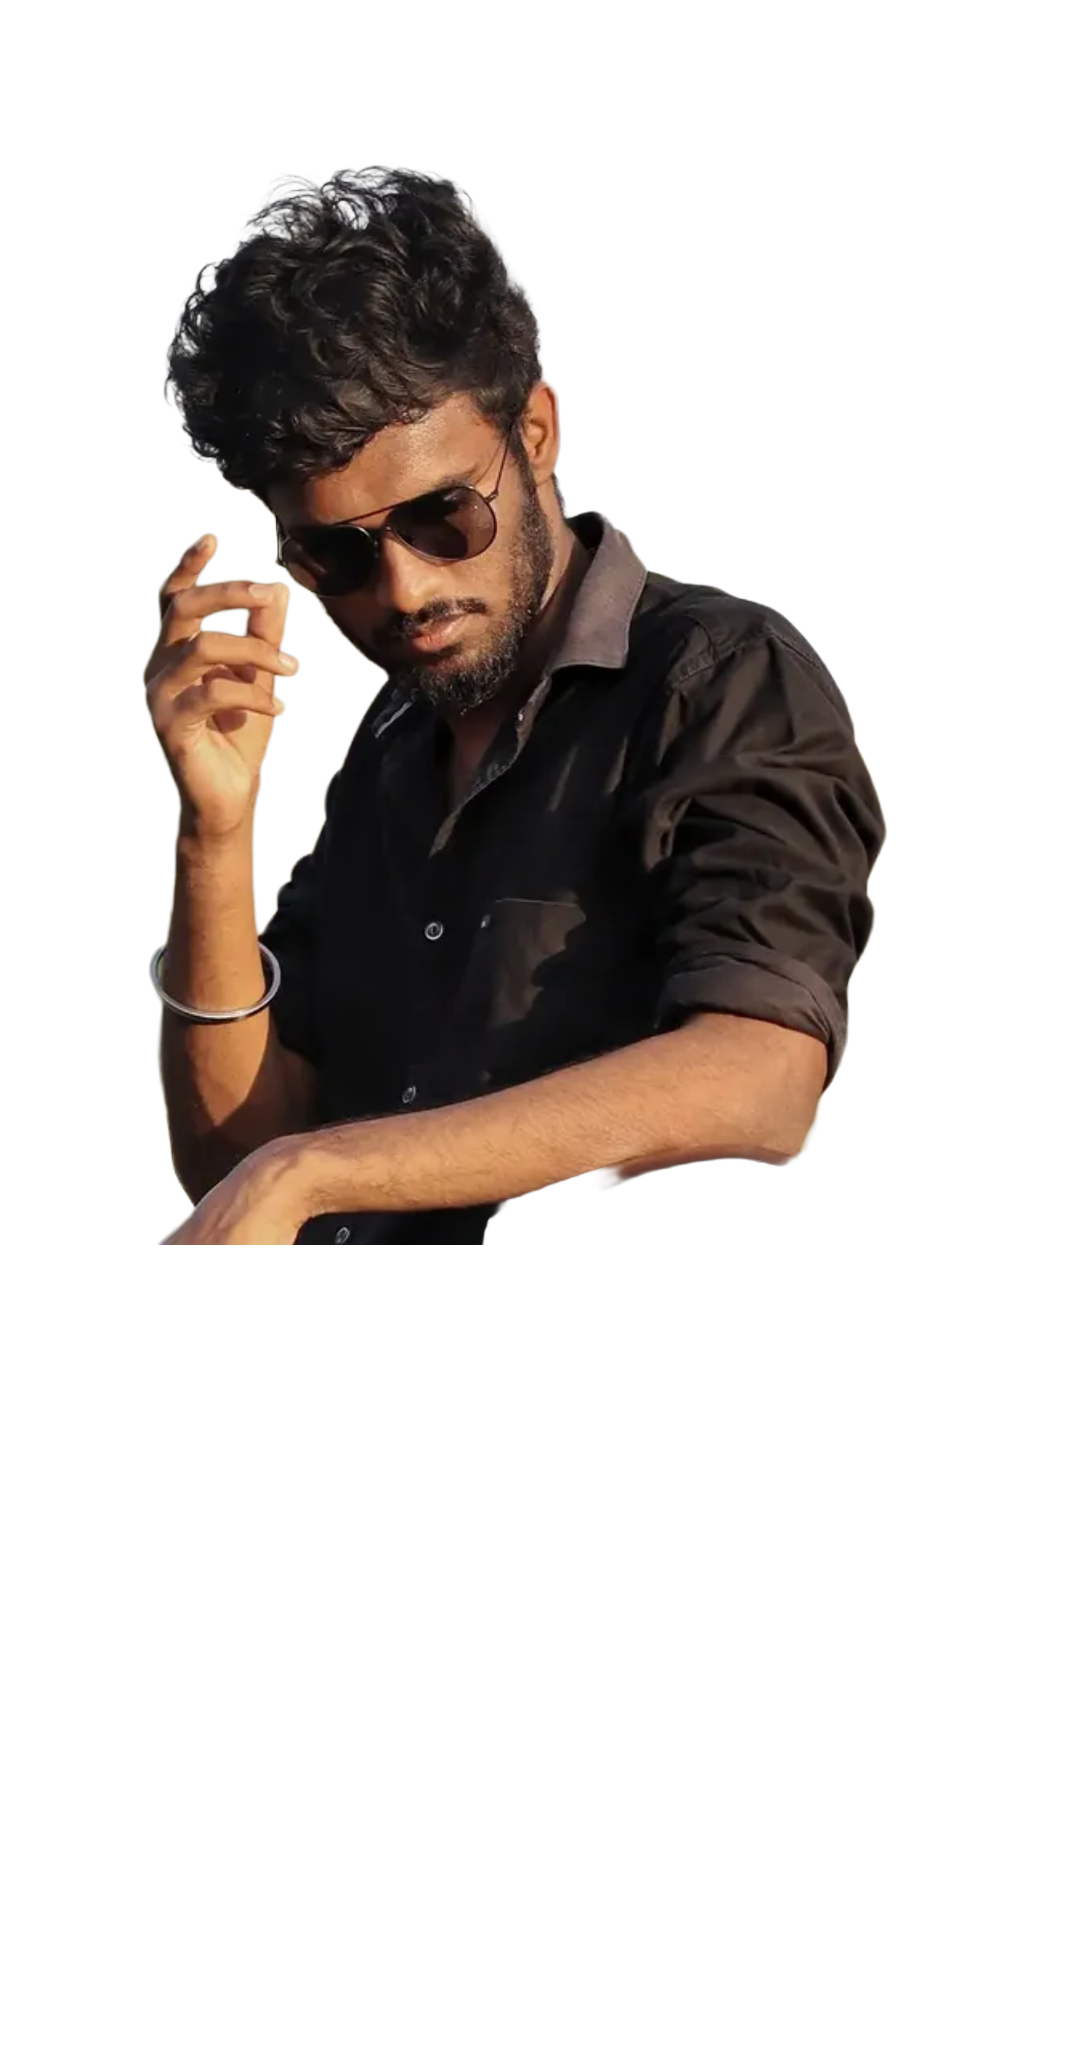
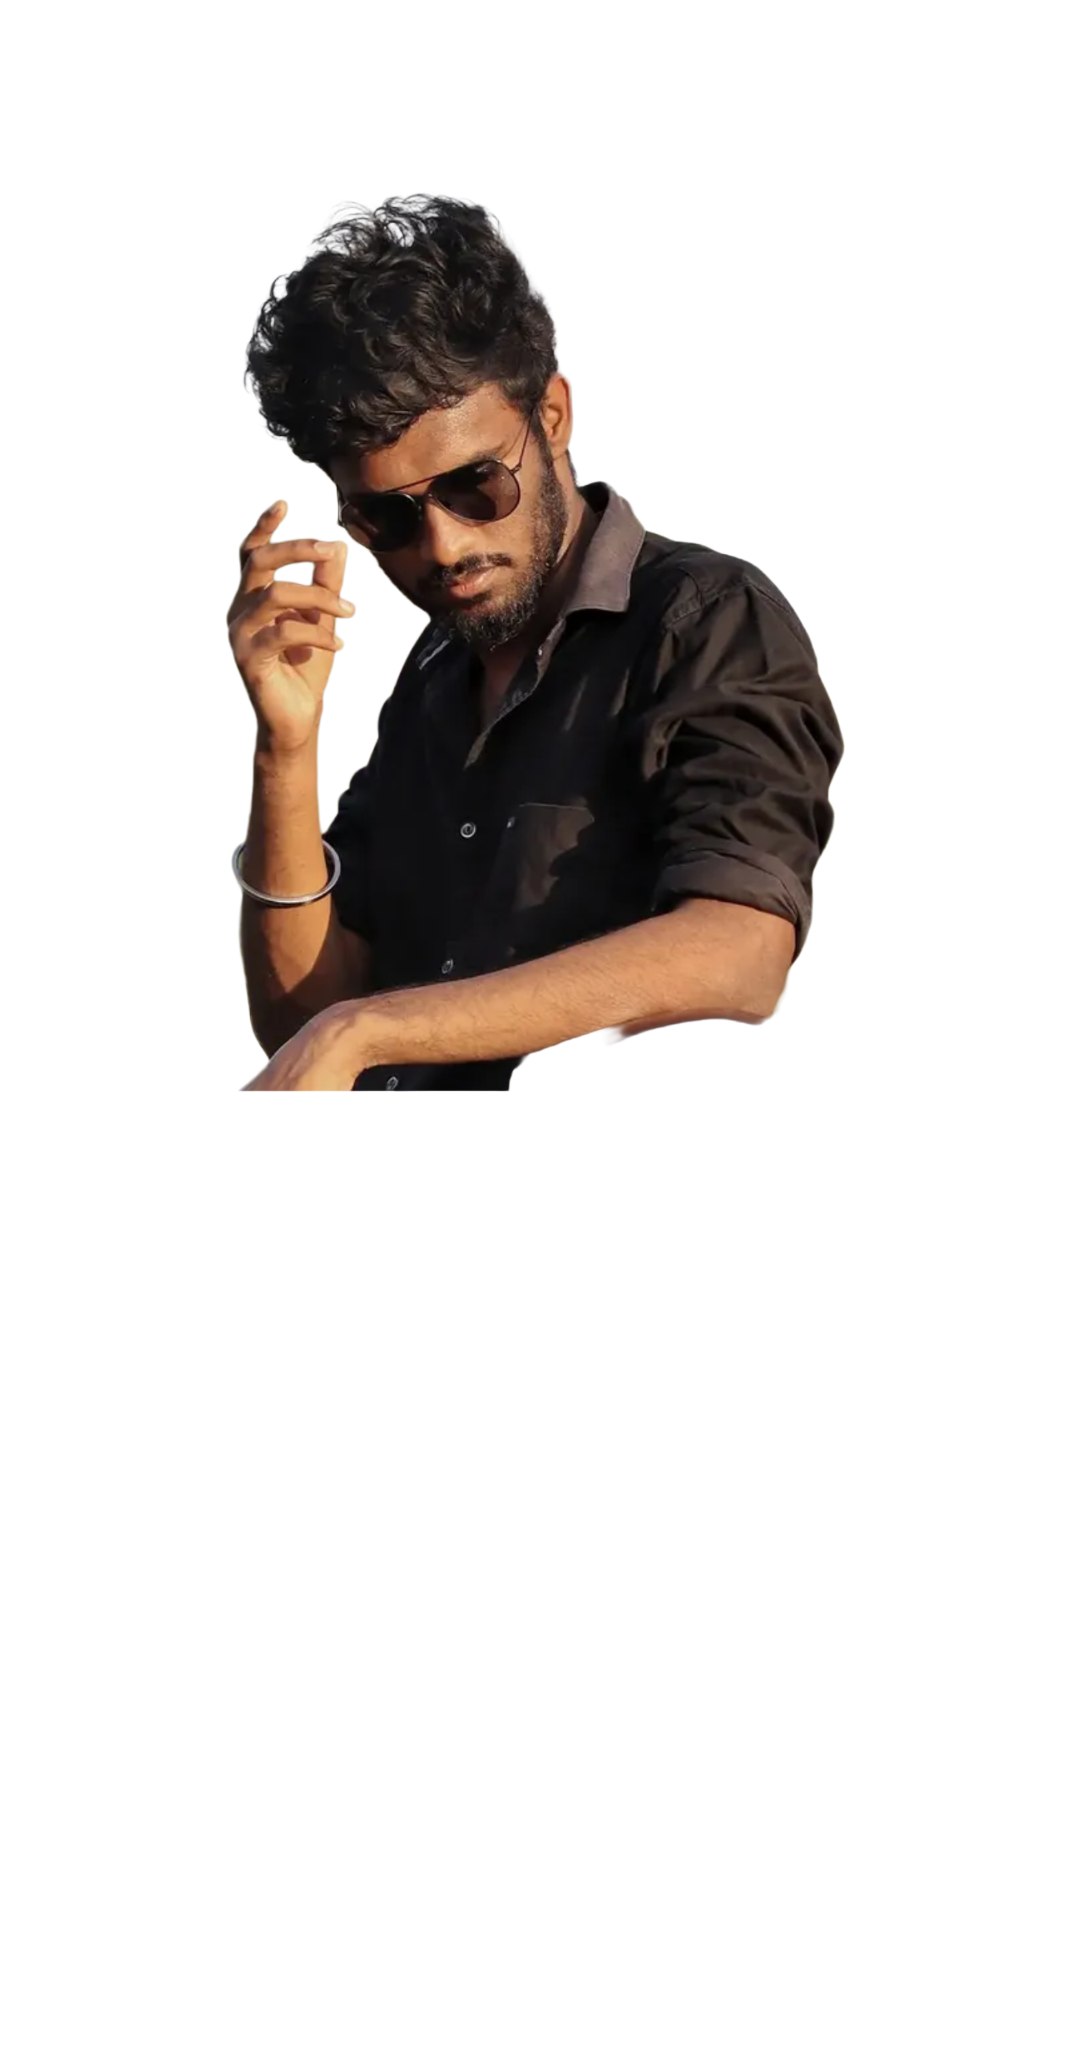
mobile responsive changed

Changed region(s): [[0.1222, 0.0622, 0.825, 0.6223]]

diff --git a/src/components/sections/hero.css b/src/components/sections/hero.css
@@ -6,10 +6,15 @@
 .hero-section {
   position: relative;
   min-height: 100vh;
-  background: #080808;
+  background: #ffffff;
   display: flex;
   align-items: center;
   font-family: 'Space Grotesk', 'Inter', system-ui, sans-serif;
+  color: #09090b;
+  transition: background-color 0.3s, color 0.3s;
+}
+.dark .hero-section {
+  background: #080808;
   color: #f0f0f0;
   width: 100%;
   margin-top: -64px; /* offset the Layout's pt-16 (64px) */
@@ -21,6 +26,9 @@
 .hero-grid-bg {
   position: absolute;
   inset: 0;
+  background-image: radial-gradient(circle, rgba(0,0,0,0.06) 1px, transparent 1px);
+}
+.dark .hero-grid-bg {
   background-image: radial-gradient(circle, rgba(255,255,255,0.04) 1px, transparent 1px);
   background-size: 32px 32px;
   pointer-events: none;
@@ -114,13 +122,17 @@
 
 /* Heading */
 .hero-heading {
+  width: 100%;
   font-family: 'Space Grotesk', sans-serif;
   font-size: clamp(2rem, 4vw, 3.25rem);
   font-weight: 700;
   line-height: 1.15;
   letter-spacing: -0.02em;
-  color: #ffffff;
+  color: #09090b;
   margin: 0;
+}
+.dark .hero-heading {
+  color: #ffffff;
 }
 .hero-heading .hero-heading-accent {
   background: linear-gradient(135deg, #3B82F6, #60A5FA, #818CF8);
@@ -134,9 +146,13 @@
   font-family: 'Inter', sans-serif;
   font-size: 1rem;
   line-height: 1.7;
-  color: rgba(255,255,255,0.55);
+  color: rgba(9, 9, 11, 0.7);
   max-width: 520px;
   margin: 0;
+}
+.dark .hero-description {
+  width: 100%;
+  color: rgba(255,255,255,0.55);
 }
 
 /* ---------- CTA Buttons ---------- */
@@ -187,28 +203,49 @@
 /* Secondary — outlined */
 .hero-btn-secondary {
   background: transparent;
+  color: #4b5563;
+  border: 1px solid rgba(0,0,0,0.15);
+  box-shadow: 0 2px 8px rgba(0,0,0,0.05);
+}
+.dark .hero-btn-secondary {
   color: #e0e0e0;
   border: 1px solid rgba(255,255,255,0.15);
   box-shadow: 0 2px 8px rgba(0,0,0,0.1);
 }
 .hero-btn-secondary:hover {
   transform: translateY(-3px);
-  background: rgba(255,255,255,0.06);
+  background: rgba(0,0,0,0.04);
   border-color: rgba(59,130,246,0.4);
+  color: #09090b;
+  box-shadow: 0 8px 32px rgba(59,130,246,0.08);
+}
+.dark .hero-btn-secondary:hover {
+  background: rgba(255,255,255,0.06);
   color: #ffffff;
   box-shadow: 0 8px 32px rgba(59,130,246,0.12);
 }
 
 /* Glass — download resume */
 .hero-btn-glass {
+  background: rgba(0,0,0,0.03);
+  color: #4b5563;
+  border: 1px solid rgba(0,0,0,0.1);
+  backdrop-filter: blur(12px);
+}
+.dark .hero-btn-glass {
   background: rgba(255,255,255,0.06);
   color: #d0d0d0;
   border: 1px solid rgba(255,255,255,0.1);
-  backdrop-filter: blur(12px);
   -webkit-backdrop-filter: blur(12px);
 }
 .hero-btn-glass:hover {
   transform: translateY(-3px);
+  background: rgba(0,0,0,0.06);
+  border-color: rgba(0,0,0,0.2);
+  color: #09090b;
+  box-shadow: 0 8px 32px rgba(0,0,0,0.06);
+}
+.dark .hero-btn-glass:hover {
   background: rgba(255,255,255,0.1);
   border-color: rgba(255,255,255,0.2);
   color: #ffffff;
@@ -331,9 +368,13 @@
   align-items: center;
   gap: 8px;
   padding: 6px 12px;
+  background: rgba(0,0,0,0.04);
+  border: 1px solid rgba(0,0,0,0.08);
+  border-radius: 20px;
+}
+.dark .portrait-dots {
   background: rgba(255,255,255,0.04);
   border: 1px solid rgba(255,255,255,0.08);
-  border-radius: 20px;
   backdrop-filter: blur(12px);
   -webkit-backdrop-filter: blur(12px);
   z-index: 5;
@@ -352,12 +393,18 @@
   width: 6px;
   height: 6px;
   border-radius: 50%;
-  background: rgba(255,255,255,0.3);
+  background: rgba(0,0,0,0.2);
   transition: all 0.3s cubic-bezier(0.22, 1, 0.36, 1);
 }
+.dark .portrait-dot__inner {
+  background: rgba(255,255,255,0.3);
+}
 .portrait-dot:hover .portrait-dot__inner {
-  background: rgba(255,255,255,0.7);
+  background: rgba(0,0,0,0.5);
   transform: scale(1.2);
+}
+.dark .portrait-dot:hover .portrait-dot__inner {
+  background: rgba(255,255,255,0.7);
 }
 .portrait-dot--active .portrait-dot__inner {
   width: 20px;
@@ -369,15 +416,20 @@
 /* ---------- Glass Cards ---------- */
 .glass-card {
   position: absolute;
-  background: rgba(12, 16, 28, 0.75);
-  border: 1px solid rgba(255, 255, 255, 0.1);
+  background: rgba(255, 255, 255, 0.85);
+  border: 1px solid rgba(0, 0, 0, 0.1);
   border-radius: 14px;
   backdrop-filter: blur(16px);
   -webkit-backdrop-filter: blur(16px);
   padding: 0.75rem 0.95rem;
   z-index: 4;
-  box-shadow: 0 8px 32px rgba(0, 0, 0, 0.45), 0 0 15px rgba(59, 130, 246, 0.08);
+  box-shadow: 0 8px 32px rgba(0, 0, 0, 0.1), 0 0 15px rgba(59, 130, 246, 0.08);
   overflow: hidden;
+}
+.dark .glass-card {
+  background: rgba(12, 16, 28, 0.75);
+  border: 1px solid rgba(255, 255, 255, 0.1);
+  box-shadow: 0 8px 32px rgba(0, 0, 0, 0.45), 0 0 15px rgba(59, 130, 246, 0.08);
   pointer-events: auto;
 }
 .glass-card::before {
@@ -387,6 +439,9 @@
   left: 0;
   right: 0;
   height: 1px;
+  background: linear-gradient(90deg, transparent, rgba(0,0,0,0.1), transparent);
+}
+.dark .glass-card::before {
   background: linear-gradient(90deg, transparent, rgba(255,255,255,0.15), transparent);
 }
 
@@ -395,14 +450,18 @@
   font-family: 'JetBrains Mono', 'Fira Code', monospace;
   font-size: 0.68rem;
   line-height: 1.55;
-  color: rgba(255,255,255,0.7);
+  color: rgba(9,9,11,0.75);
   min-width: 170px;
+}
+.dark .glass-card--code {
+  color: rgba(255,255,255,0.7);
 }
 .glass-card--code .code-keyword { color: #C678DD; }
 .glass-card--code .code-function { color: #61AFEF; }
 .glass-card--code .code-string  { color: #98C379; }
 .glass-card--code .code-const   { color: #E5C07B; }
-.glass-card--code .code-comment { color: rgba(255,255,255,0.3); font-style: italic; }
+.glass-card--code .code-comment { color: rgba(9,9,11,0.4); font-style: italic; }
+.dark .glass-card--code .code-comment { color: rgba(255,255,255,0.3); }
 
 /* Terminal card */
 .glass-card--terminal {
@@ -417,6 +476,9 @@
   gap: 6px;
   margin-bottom: 0.4rem;
   padding-bottom: 0.4rem;
+  border-bottom: 1px solid rgba(0,0,0,0.06);
+}
+.dark .terminal-header {
   border-bottom: 1px solid rgba(255,255,255,0.06);
 }
 .terminal-dot {
@@ -429,13 +491,18 @@
 .terminal-dot--green  { background: #28CA41; }
 .terminal-title {
   font-size: 0.58rem;
-  color: rgba(255,255,255,0.3);
+  color: rgba(9,9,11,0.5);
   margin-left: 4px;
 }
-.terminal-line { color: rgba(255,255,255,0.6); }
+.dark .terminal-title {
+  color: rgba(255,255,255,0.3);
+}
+.terminal-line { color: rgba(9,9,11,0.75); }
+.dark .terminal-line { color: rgba(255,255,255,0.6); }
 .terminal-prompt { color: #28CA41; }
 .terminal-cmd    { color: #61AFEF; }
-.terminal-output { color: rgba(255,255,255,0.4); }
+.terminal-output { color: rgba(9,9,11,0.5); }
+.dark .terminal-output { color: rgba(255,255,255,0.4); }
 
 /* Stats/dashboard card */
 .glass-card--stats {
@@ -448,8 +515,11 @@
   font-weight: 600;
   letter-spacing: 0.1em;
   text-transform: uppercase;
-  color: rgba(255,255,255,0.4);
+  color: rgba(9,9,11,0.6);
   margin-bottom: 0.45rem;
+}
+.dark .stats-title {
+  color: rgba(255,255,255,0.4);
 }
 .stats-row {
   display: flex;
@@ -461,8 +531,11 @@
   height: 4px;
   border-radius: 2px;
   flex: 1;
-  background: rgba(255,255,255,0.06);
+  background: rgba(0,0,0,0.06);
   overflow: hidden;
+}
+.dark .stats-bar {
+  background: rgba(255,255,255,0.06);
 }
 .stats-bar-fill {
   height: 100%;
@@ -472,8 +545,11 @@
 .stats-label {
   font-family: 'Inter', sans-serif;
   font-size: 0.58rem;
-  color: rgba(255,255,255,0.5);
+  color: rgba(9,9,11,0.7);
   min-width: 26px;
+}
+.dark .stats-label {
+  color: rgba(255,255,255,0.5);
 }
 
 /* ---------- Floating Tech Icons ---------- */
@@ -489,9 +565,13 @@
   width: 44px;
   height: 44px;
   border-radius: 12px;
+  background: rgba(255,255,255,0.6);
+  border: 1px solid rgba(0,0,0,0.08);
+  backdrop-filter: blur(8px);
+}
+.dark .floating-icon {
   background: rgba(255,255,255,0.04);
   border: 1px solid rgba(255,255,255,0.08);
-  backdrop-filter: blur(8px);
   -webkit-backdrop-filter: blur(8px);
   box-shadow: 0 4px 16px rgba(0,0,0,0.2);
   transition: transform 0.3s cubic-bezier(0.22, 1, 0.36, 1),
@@ -501,9 +581,12 @@
 }
 .floating-icon:hover {
   transform: scale(1.12);
-  background: rgba(255, 255, 255, 0.08);
+  background: rgba(255, 255, 255, 0.9);
   border-color: rgba(59, 130, 246, 0.4);
   box-shadow: 0 6px 24px rgba(59, 130, 246, 0.25);
+}
+.dark .floating-icon:hover {
+  background: rgba(255, 255, 255, 0.08);
 }
 .floating-icon svg {
   width: 22px;
@@ -574,18 +657,20 @@
   }
   .hero-description {
     max-width: 100%;
+    padding: 0 0.5rem;
   }
   .hero-cta-group {
     justify-content: center;
   }
   .hero-right {
-    min-height: 380px;
+    min-height: 440px;
   }
   .hero-composition {
-    max-width: 350px;
+    width: 100%;
+    max-width: 400px;
   }
   .portrait-container {
-    width: 230px; /* height follows from the fixed aspect-ratio */
+    width: min(100%, 300px);
   }
   .glass-card {
     display: none;
@@ -624,13 +709,14 @@
     padding: 0.85rem 1.5rem;
   }
   .hero-right {
-    min-height: 360px;
+    min-height: 420px;
   }
   .hero-composition {
-    max-width: 320px;
+    width: 100%;
+    max-width: 360px;
   }
   .portrait-container {
-    width: 190px; /* height follows from the fixed aspect-ratio */
+    width: min(100%, 250px);
   }
   .glass-card {
     display: none;

diff --git a/src/index.css b/src/index.css
@@ -17,12 +17,14 @@
 }
 
 html {
+  overflow-x: hidden;
   -webkit-font-smoothing: antialiased;
   -moz-osx-font-smoothing: grayscale;
   text-rendering: optimizeLegibility;
 }
 
 body {
+  overflow-x: hidden;
   background-color: var(--color-bg);
   color: var(--color-text);
   @apply antialiased transition-colors duration-300;
@@ -31,6 +33,7 @@ body {
 /* Native smooth scrolling fallback when Lenis is disabled (reduced motion). */
 @media (prefers-reduced-motion: reduce) {
   html {
+  overflow-x: hidden;
     scroll-behavior: smooth;
   }
   *,

diff --git a/src/components/sections/Hero.jsx b/src/components/sections/Hero.jsx
@@ -264,6 +264,11 @@ export default function Hero() {
             initial="hidden"
             animate="visible"
           >
+            {/* Mobile Name */}
+            <motion.h2 variants={fadeUp} className="md:hidden text-2xl sm:text-3xl font-extrabold tracking-tight text-gray-900 dark:text-white mb-2">
+              Selvaganesh
+            </motion.h2>
+
             {/* Label */}
             <motion.div variants={fadeUp}>
               <span className="hero-label">FULL STACK DEVELOPER</span>
